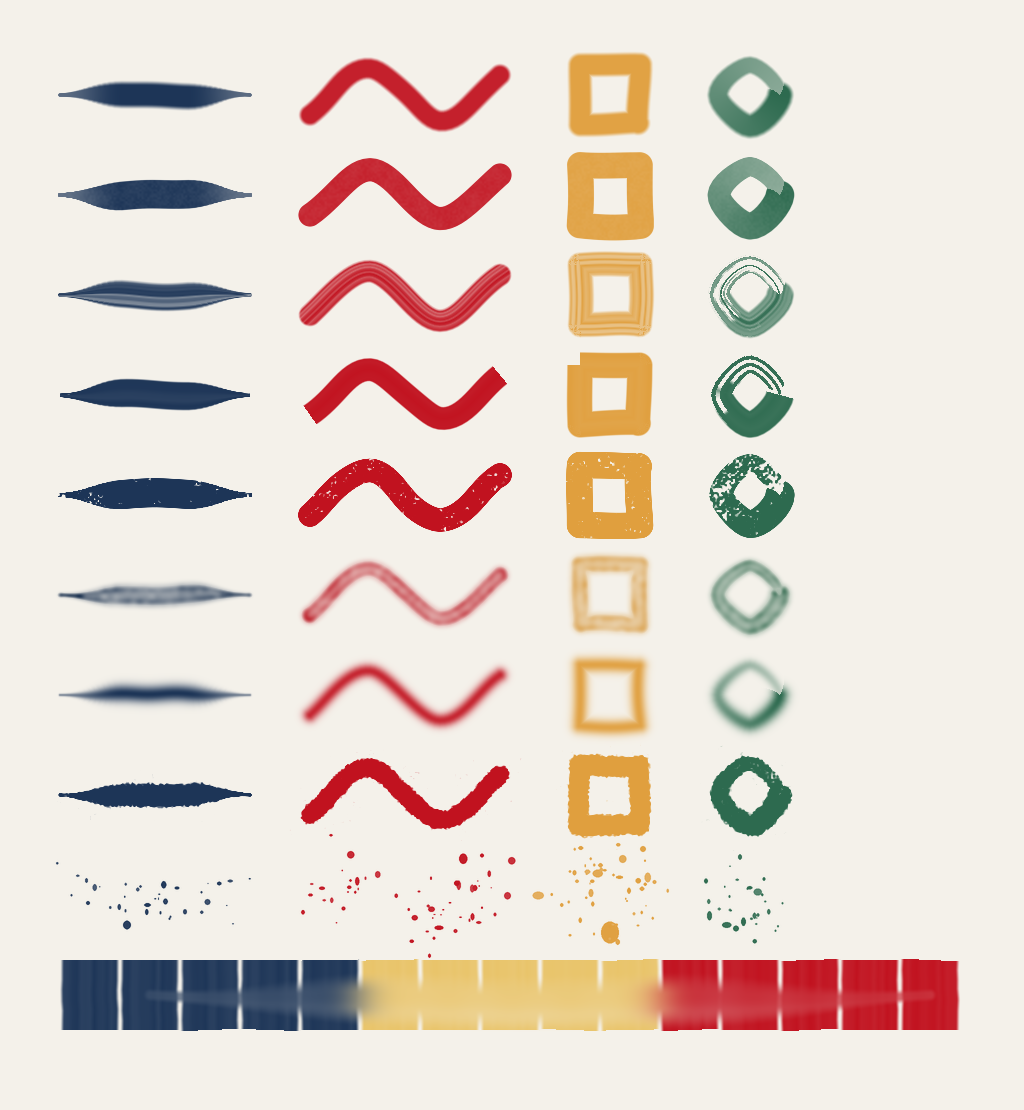
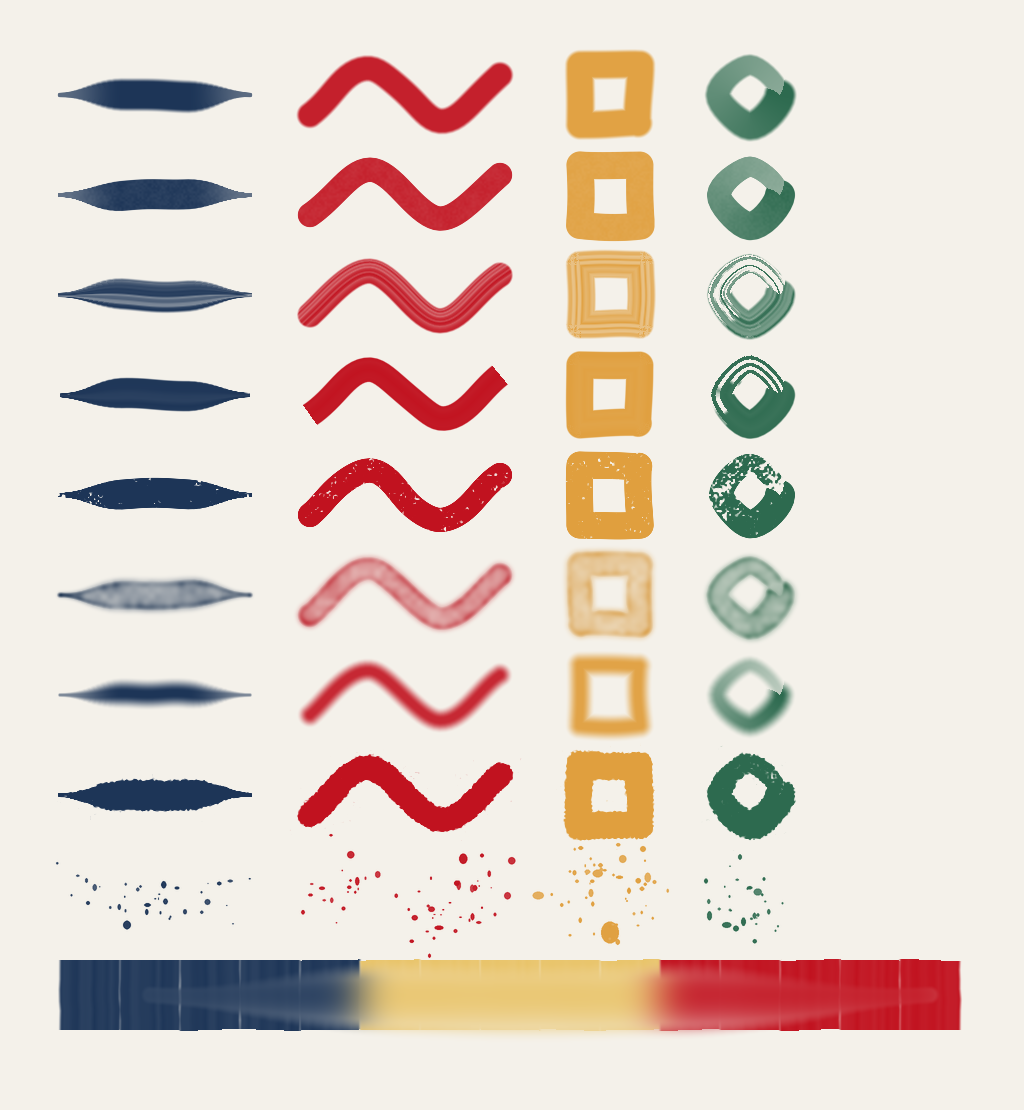
No budget in sight, an improvising prompt, and tools that do what they say
- The prompt calls the painting an exercise for the model itself, asks it to reflect and
  improvise after each stroke instead of planning, and no longer mentions a stroke
  budget or that it may stop or do nothing.
- No "N strokes left" after each stroke. The cap (now 300) is a hidden safety limit,
  mentioned only if it's reached.
- Every brush is `size` wide at full pressure: soft edges are centred on the nominal
  edge instead of eating into it, and the airbrush spreads to its size. Flat-brush dabs
  no longer vanish. Brush descriptions now say what each brush really does, and the
  tool description mentions the hand wobble. Tests check the widths and that nothing
  sent to the model mentions a budget.

Claude-Session: https://claude.ai/code/session_01PGfP4TMHDVS9YMADGAR4mL

diff --git a/painterly/viewer_template.html b/painterly/viewer_template.html
@@ -171,7 +171,7 @@ details.brief p { margin: 10px 0 0; color: var(--muted); font-size: 14px; }
   $("eyebrow").textContent = "Painterly run" + (date ? ` · ${date[1]}-${date[2]}-${date[3]} ${date[4]}:${date[5]}` : "");
   const meta = [
     ["Model", M.model], ["Effort", M.effort], ["Canvas", `${M.width} × ${M.height}`],
-    ["Strokes", `${strokeCount} of ${M.max_actions}`],
+    ["Strokes", `${strokeCount}`],
     ["Ended", M.finished ? "it called finish" : "without finishing"],
   ];
   if (M.cost != null) meta.push(["Cost", "$" + Number(M.cost).toFixed(4)]);
@@ -180,7 +180,8 @@ details.brief p { margin: 10px 0 0; color: var(--muted); font-size: 14px; }
   $("limits").textContent =
     `Tools: brush${M.undo ? ", undo" : ""}, look, finish. One stroke per turn; ` +
     (M.max_stroke_length ? `the longest stroke ${M.max_stroke_length} px, ` : "no limit on stroke length, ") +
-    `the widest brush ${M.max_brush_size} px, hand wobble ${M.wobble ? "on" : "off"}.`;
+    `the widest brush ${M.max_brush_size} px, hand wobble ${M.wobble ? "on" : "off"}. ` +
+    `A safety cap of ${M.max_actions} strokes${/up to \d+ strokes/.test(M.system_prompt || "") ? "" : ", which it wasn't told about"}.`;
 
   // ---- geometry (same arc as the engine, without the wobble)
   function arc(start, end, k) {
@@ -360,7 +361,7 @@ details.brief p { margin: 10px 0 0; color: var(--muted); font-size: 14px; }
     let html = "";
     if (s.kind === "start") {
       html = `<div class="step-head"><h2>The canvas is ready</h2></div>
-        <p class="none">${M.width} × ${M.height} px of bare paper, ${M.max_actions} strokes available. Step forward to see the first stroke and what led to it.</p>`;
+        <p class="none">${M.width} × ${M.height} px of bare paper. Step forward to see the first stroke and what led to it.</p>`;
     } else if (s.kind === "end") {
       const f = s.finish;
       html = `<div class="step-head"><h2>${f ? "Finished" : "Stopped"}</h2></div>` + notesHtml(s.notes);

diff --git a/painterly/canvas.py b/painterly/canvas.py
@@ -87,58 +87,61 @@ class BrushSpec:
     taper_out: float = 0.0
 
 
+# Each description says what the brush actually does; `painterly/sampler.py` draws them all.
+# A stroke is `size` wide at full pressure (at half strength, for the soft-edged ones).
 BRUSHES: dict[str, BrushSpec] = {
     b.name: b
     for b in [
-        BrushSpec("round", "Plain round brush with a soft-firm edge and even coverage.", 0.6),
+        BrushSpec("round", "Round brush: even, opaque colour with a slightly soft edge.", 0.6),
         BrushSpec(
             "ink",
-            "Pointed brush with ink: crisp, fully saturated line whose width follows pressure "
-            "closely. Good for calligraphic marks.",
+            "Pointed brush with ink: crisp, dark, fully opaque line. Good for calligraphic "
+            "marks that swell and thin with pressure.",
             0.9,
-            taper_in=0.25,
-            taper_out=0.35,
         ),
         BrushSpec(
             "bristle",
-            "Hog-hair brush: visible bristle streaks along the stroke. With little paint loaded or "
-            "light pressure it breaks into dry-brush scratches.",
+            "Hog-hair brush: the paint lies in streaks along the stroke, so a little of what's "
+            "underneath shows through. With little paint loaded or light pressure it breaks up "
+            "into dry-brush scratches.",
             0.75,
         ),
         BrushSpec(
             "flat",
-            "Wide flat brush held square to the direction of travel: firm edges, faint streaking, "
-            "square-ish ends. Good for blocking in planes.",
+            "Flat brush held square to the direction of travel: firm edges, faint streaks, "
+            "square ends. Good for blocking in areas.",
             0.85,
         ),
         BrushSpec(
             "knife",
-            "Palette knife: opaque, hard-edged slab of paint that skips over the canvas grain, more "
-            "so with light pressure or as it runs out.",
+            "Palette knife: an opaque, hard-edged slab of paint that skips over the paper's "
+            "grain, more so with light pressure or little paint loaded.",
             0.95,
         ),
         BrushSpec(
             "watercolor",
-            "Transparent wash: soft body, darker pooled edges, pigment granulating in the paper grain. "
-            "Layers deepen like glazes rather than covering.",
+            "Transparent wash: pools darker at its edges and granulates in the paper grain. "
+            "It darkens what's underneath like a glaze instead of covering it, so a light "
+            "colour barely shows over a dark one.",
             0.3,
             blend="multiply",
         ),
         BrushSpec(
             "airbrush",
-            "Very soft gaussian spray with no edge. Builds up gradually; good for glows and haze.",
+            "Soft spray with no edge: solid along the centre, fading to nothing at about the "
+            "stroke's size. Light pressure or dilution gives a faint haze.",
             0.0,
         ),
         BrushSpec(
             "charcoal",
-            "Dry, grainy mark that catches only the raised tooth of the paper; heavier pressure "
-            "fills more of the grain.",
+            "Charcoal: a dry, grainy mark that catches the raised tooth of the paper; light "
+            "pressure leaves more paper showing.",
             0.5,
         ),
         BrushSpec(
             "spatter",
-            "Droplets flicked off the brush, scattered around the stroke. `size` sets the spread, "
-            "pressure how many droplets land.",
+            "Droplets flicked off the brush, landing within about `size` of the path. "
+            "Pressure sets how many land; a single point gives a small burst.",
             0.8,
         ),
     ]
@@ -147,7 +150,7 @@ BRUSHES: dict[str, BrushSpec] = {
 BRUSHES["blender"] = BrushSpec(
     "blender",
     "Clean, dry soft brush: lays down no paint, but blends and softens the paint it passes "
-    "over, like working wet paint together. Colour is ignored.",
+    "over. Colour is ignored.",
     0.2,
 )
 
@@ -472,7 +475,9 @@ class Canvas:
             P = pressure_at(pressure, T)
             load = load * (0.5 + 0.5 * P)
             dryness = dryness + 0.5 * (1.0 - P)
-        edge = lambda h: 1.0 - smoothstep(min(h, 0.97), 1.0, nd)  # noqa: E731
+        # Soft edges are centred on the stroke's nominal edge (nd = 1), so a stroke is `size`
+        # wide at half strength whatever its hardness: softness blurs the edge, it doesn't shrink it.
+        edge = lambda h: 1.0 - smoothstep(1.0 - max(0.03, (1.0 - h) * 0.45), 1.0 + max(0.03, (1.0 - h) * 0.45), nd)  # noqa: E731
 
         if brush in ("round", "ink", "blender"):
             alpha = edge(hardness)
@@ -480,7 +485,8 @@ class Canvas:
                 alpha *= 0.92 + 0.08 * grain
             alpha *= 0.35 + 0.65 * load if (fade > 0 or pressure is not None) else 1.0
         elif brush == "airbrush":
-            alpha = np.exp(-3.2 * nd * nd) * (nd < 1.6)
+            # soft spray, no hard edge; half strength at ~0.6 of the size, fading out by ~0.9
+            alpha = 1.0 - smoothstep(0.15, 1.1, nd)
             alpha *= load
         elif brush in ("bristle", "flat"):
             # One lane per bristle across the stroke; each lane has its own load and
@@ -507,7 +513,7 @@ class Canvas:
             along = lane_noise[lane, i0] * (1 - f) + lane_noise[lane, i0 + 1] * f
             dry = smoothstep(-0.08, 0.08, load + 0.3 * (along - 0.5) - thresh[lane] * dryness)
             body = edge(hardness)
-            if brush == "flat" and not np.allclose(path[0], path[-1]):  # a closed loop has no ends
+            if brush == "flat" and total > 1.0 and not np.allclose(path[0], path[-1]):  # dabs and closed loops have no ends
                 body = body * ((T > 0.0) & (T < 1.0))  # square ends
             alpha = body * streak * dry
         elif brush == "knife":

diff --git a/painterly/agent.py b/painterly/agent.py
@@ -21,11 +21,14 @@ from .tools import MARKING_TOOLS, Limits, ToolError, apply_tool, tool_definition
 DEFAULT_SYSTEM_PROMPT = """\
 You have a blank canvas, {width} by {height} pixels, and a set of brushes.
 
-You're free to do whatever you like with it, in any way you like, or nothing at all. \
-You decide what this is and when it's finished.
+This painting is an exercise for yourself, not a task to complete. There's nothing to \
+deliver.
 
-You paint one stroke at a time, and after each stroke you'll see the canvas as it is \
-now. You have up to {max_actions} strokes. When you're done, call `finish`."""
+Don't plan it out from the start. You paint one stroke at a time, and after each stroke \
+you'll see the canvas as it is now. Look at what's there, reflect on it, and let that \
+suggest the next stroke. Improvise, and let the painting develop and change as you go.
+
+When you feel it's finished, call `finish`."""
 
 FIRST_MESSAGE = "The canvas is ready."
 
@@ -49,7 +52,7 @@ class RunConfig:
     width: int = 1024
     height: int = 1024
     paper: str = "#f4f1ea"
-    max_actions: int = 150
+    max_actions: int = 300  # a safety cap on strokes; the model isn't told about it
     max_nudges: int = 1
     keep_images: int = 4  # how many recent tool results (canvas views) stay in context
     clear_trigger_tokens: int = 40_000
@@ -492,7 +495,7 @@ class PaintingSession:
                 continue
             if self.stats.actions >= self.cfg.max_actions and tu.name in MARKING_TOOLS:
                 results.append({"type": "tool_result", "tool_use_id": tu.id, "is_error": True,
-                                "content": "No strokes left. Call `finish` when you're ready."})
+                                "content": "This session can't take any more strokes. Call `finish` when you're ready."})
                 continue
             acted = True
             self._seed_counter += 1
@@ -528,11 +531,10 @@ class PaintingSession:
 
         if changed and self.finished is None:
             # Attach the current canvas once, to the result of the last call that changed it.
-            left = self.cfg.max_actions - self.stats.actions
             view = self._image_block(self.canvas.image(), f"frame-{self.stats.actions:04d}")
             last = results[view_at]
             content = last["content"] if isinstance(last["content"], list) else [{"type": "text", "text": last["content"]}]
-            last["content"] = content + [view, {"type": "text", "text": f"{left} strokes left."}]
+            last["content"] = content + [view]
         return results
 
     def _wrap_up(self, say) -> None:

diff --git a/tests/test_loop.py b/tests/test_loop.py
@@ -87,8 +87,7 @@ def test_full_loop(tmp_path):
     assert [t["name"] for t in client.requests[0]["tools"]] == ["brush", "look", "undo", "finish"]
     first = client.requests[1]["messages"][-1]["content"]
     assert first[1]["is_error"] and "one stroke at a time" in first[1]["content"]
-    assert [b["type"] for b in first[0]["content"]] == ["text", "image", "text"]  # view after the stroke
-    assert first[0]["content"][-1]["text"] == "19 strokes left."
+    assert [b["type"] for b in first[0]["content"]] == ["text", "image"]  # view after the stroke, no countdown
 
     def result(n):
         return client.requests[n]["messages"][-1]["content"][0]
@@ -124,7 +123,7 @@ def test_no_undo_no_look(tmp_path):
     PaintingSession(cfg, client=client).run()
     tools = client.requests[0]["tools"]
     assert [t["name"] for t in tools] == ["brush", "finish"]
-    assert "at most" not in tools[0]["description"]  # no length limit by default
+    assert "px long" not in tools[0]["description"]  # no length limit by default
     assert tools[0]["input_schema"]["properties"]["points"]["maxItems"] == 7
 
 
@@ -243,3 +242,28 @@ def test_length_limit_when_set(tmp_path):
     PaintingSession(RunConfig(out_dir=tmp_path, max_stroke_length=410), client=client).run()
     res = client.requests[1]["messages"][-1]["content"][0]
     assert res["is_error"] and "at most 410 px" in res["content"]
+
+
+def test_nothing_mentions_a_budget(tmp_path):
+    client = FakeClient([SCRIPT[0], SCRIPT[-1]])
+    PaintingSession(RunConfig(out_dir=tmp_path), client=client).run()
+    sent = json.dumps([client.requests[1]["system"], client.requests[1]["tools"],
+                       client.requests[1]["messages"]], default=str).lower()
+    for word in ("300", "strokes left", "budget", "remaining", "up to 300"):
+        assert word not in sent, word
+
+
+def test_size_is_the_width_at_full_pressure():
+    import numpy as np
+    from painterly.canvas import Canvas
+    from painterly.tools import Limits, apply_tool
+
+    for brush in ("round", "ink", "bristle", "flat", "knife", "charcoal"):
+        for pts in ([[50, 200], [350, 200]], [[200, 200]]):
+            c = Canvas(400, 400, seed=2)
+            apply_tool(c, "brush", {"brush": brush, "points": pts, "pressure": [1], "color": "#000000", "size": 100},
+                       3, Limits(None, 154, 0.0))
+            cov = 1 - c.rgb.mean(axis=2) / c.paper.mean()
+            core = cov[195:205, 195:205].mean()
+            width = (cov[:, 195:205].mean(axis=1) > core / 2).sum()
+            assert 92 <= width <= 108, (brush, len(pts), width)

diff --git a/painterly/tools.py b/painterly/tools.py
@@ -38,7 +38,9 @@ def tool_definitions(width: int, height: int, limits: Limits | None = None, undo
                 "Make one brushstroke: put the brush down at the first point, move it through "
                 "each point in order in one continuous motion, and lift it at the last. Up to "
                 "7 points. Through them the stroke can flow as a smooth curve or turn sharp "
-                "corners, and it can close back on itself. A single point makes a dab."
+                "corners, and it can close back on itself. A single point makes a dab. Like a "
+                "real hand, the brush wavers slightly from the exact path, by a few pixels at "
+                "most, and always starts and ends exactly on the first and last points."
                 + (f" A stroke can be at most {lim.max_stroke_length:g} px long; for anything "
                    "longer, use several strokes." if lim.max_stroke_length else "")
                 + f" {coord}\n\nBrushes:\n{_brush_list}"
@@ -62,7 +64,9 @@ def tool_definitions(width: int, height: int, limits: Limits | None = None, undo
                         "off, or [0.6] for steady pressure. Pressure sets the stroke's width "
                         "(size is the width at full pressure) and how much paint it lays down.")},
                     "color": {"type": "string", "description": "Hex colour, e.g. '#2b4a6f'."},
-                    "size": {"type": "number", "description": f"Width at full pressure in pixels (1-{lim.max_brush_size:g})."},
+                    "size": {"type": "number", "description": (
+                        f"Width of the stroke at full pressure, in pixels (1-{lim.max_brush_size:g}). "
+                        "Lighter pressure narrows it in proportion: at pressure 0.5 it is about half as wide.")},
                     "load": {"type": "number", "description": (
                         "How much paint is on the brush, 0-1. Default 1. With less, the stroke "
                         "runs dry toward its end.")},
@@ -106,7 +110,7 @@ def tool_definitions(width: int, height: int, limits: Limits | None = None, undo
         })
     tools.append({
         "name": "finish",
-        "description": "Call this when you are done with the canvas. Title and note are optional.",
+        "description": "Call this when you feel the painting is finished. Title and note are optional.",
         "input_schema": {
             "type": "object",
             "properties": {

diff --git a/painterly/__main__.py b/painterly/__main__.py
@@ -18,7 +18,8 @@ def main(argv: list[str] | None = None) -> int:
     r.add_argument("--effort", default=RunConfig.effort, choices=["low", "medium", "high", "xhigh", "max"])
     r.add_argument("--size", default=f"{RunConfig.width}x{RunConfig.height}", help="canvas WxH, e.g. 1024x768")
     r.add_argument("--paper", default=RunConfig.paper, help="paper colour (hex)")
-    r.add_argument("--max-actions", type=int, default=RunConfig.max_actions)
+    r.add_argument("--max-actions", type=int, default=RunConfig.max_actions,
+                   help="safety cap on strokes (default 300); the model isn't told about it")
     r.add_argument("--keep-images", type=int, default=RunConfig.keep_images, help="recent canvas views kept in context")
     r.add_argument("--prompt", type=Path, help="file with a replacement system prompt ({width} {height} {max_actions} are filled in)")
     r.add_argument("--out", type=Path, default=RunConfig.out_dir)

diff --git a/README.md b/README.md
@@ -13,7 +13,7 @@ choice is entirely its own.
 pip install -e .            # or: pip install -r requirements.txt
 export ANTHROPIC_API_KEY=... # or `ant auth login`
 
-python -m painterly run                     # one session, 150 strokes max
+python -m painterly run                     # one session (safety cap: 300 strokes, never shown to the model)
 python -m painterly run --runs 5 --seed 10  # five independent sessions
 python -m painterly sampler -o brushes.png  # brush reference sheet, no API calls
 python -m painterly resume runs/<id>        # carry on a run that stopped early
@@ -133,11 +133,18 @@ and easy to change:
   model an artist. Even naming a brush "watercolor" nudges it, but some vocabulary is
   unavoidable. Use `--prompt my_prompt.txt` to compare framings, and see `config.json` for
   the exact text each run got.
+- **An exercise, not a task.** The prompt calls the painting an exercise for the model
+  itself, with nothing to deliver. It asks it not to plan from the start, but to look
+  after each stroke, reflect, and improvise as the painting develops.
 - **Nothing about an audience.** The prompt doesn't say anyone will look at the painting,
-  and it doesn't say nobody will. It only says the canvas is the model's to do with as it
-  likes.
-- **Stopping, including stopping immediately, is allowed.** An empty canvas is a valid
-  result.
+  and it doesn't say nobody will.
+- **No budget in sight.** The model isn't told how many strokes it has, and there's no
+  countdown. A safety cap (`--max-actions`, default 300) exists, and it's only mentioned
+  if the model reaches it. Earlier runs that showed the budget used about half of it and
+  planned to that size from the first thought.
+- **The tools do what they say.** Every brush is `size` wide at full pressure. The
+  descriptions match the rendering, including the slight hand wobble, so the model
+  doesn't trip over results it didn't ask for. `tests/` checks the widths.
 - **Memory is short-term.** Only the last few canvas views stay in context (`--keep-images`,
   via server-side context editing), along with all of its own words and tool calls. Like a
   painter, it sees the canvas as it is now, not every earlier state.
@@ -160,7 +167,7 @@ and easy to change:
 - Canvas views are uploaded through the Files API and referenced by id, with a two-day
   expiry, so request size stays flat over a long session.
 - Cost: each canvas view is roughly 1.4k input tokens, and every stroke is a request. A rough estimate, not yet measured,
-  is $3–15 for a full 150-action session at `high` effort, mostly thinking output and
+  is $3–15 for a 150-stroke session at `high` effort, mostly thinking output and
   resent history. `summary.json` gives the figure for each run, so run one session before
   starting a batch. `--max-actions` and `--effort` are the main controls.
 - Tests: `pip install pytest && pytest` runs the whole loop against a scripted stand-in
